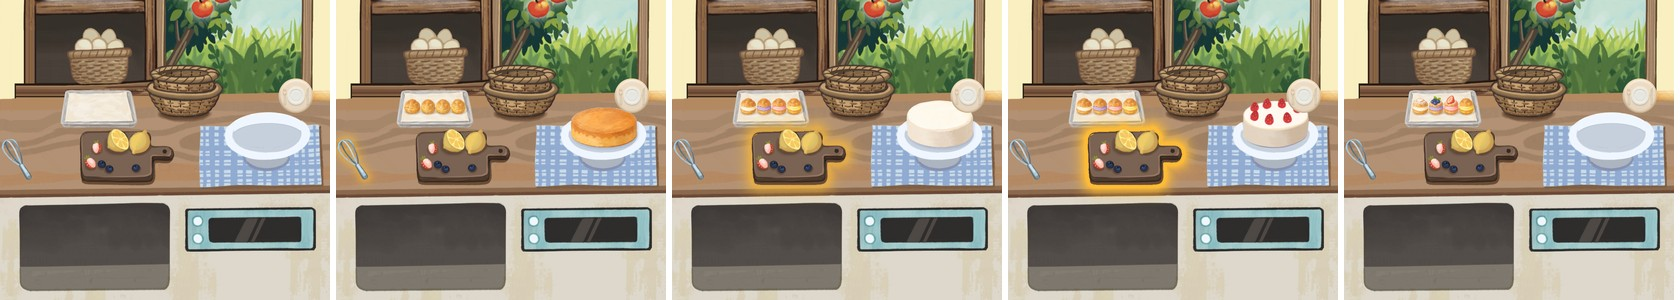
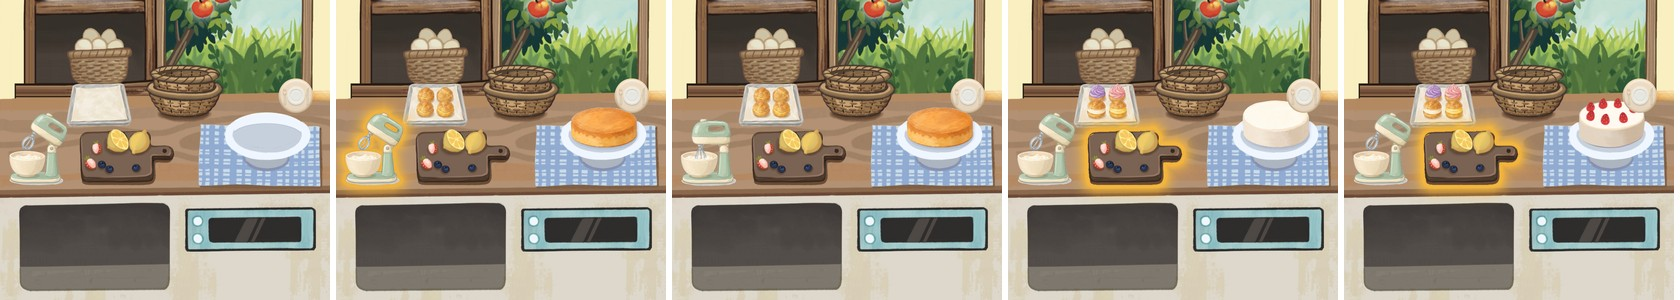
Report: the locked dining table screenshot, the kitchen with the mixer set, the new tray, self-cooking and the new oven times

diff --git a/Docs/tools/report_page/index.html b/Docs/tools/report_page/index.html
@@ -74,12 +74,12 @@ h3 small{font-weight:600;color:var(--soft);font-size:13px;margin-left:6px}
 <h2 id="next"><span class="n">1</span>Next</h2>
 <div class="grid">
 <div class="who p1"><h3>You</h3>
-<p><b>Test build 2026.11.20 (2)</b> is in TestFlight (12:56). The tray, the kitchen-stand cake and the dining table came after it.</p>
-<p><b>Current:</b> the kitchen stages, the mixer with a foot, the dining table.</p>
+<p><b>Test build 2026.11.20 (3):</b> building; this line changes when it is in TestFlight.</p>
+<p><b>Current:</b> the dining table screenshot; the kitchen with the mixer, the tray and the self-cooking.</p>
 <p><b>Release 2026.11.20</b> is still waiting for Apple's review.</p>
 </div>
 <div class="who p2"><h3>Me</h3>
-<p>The mixer into the game on your tick; a new test build when you say. Tomorrow morning: App Store Connect's 19th.</p>
+<p>Better mixer art when ChatGPT's pictures are back (tomorrow 12:01). Tomorrow morning: App Store Connect's 19th.</p>
 </div>
 </div>
 
@@ -106,46 +106,38 @@ h3 small{font-weight:600;color:var(--soft);font-size:13px;margin-left:6px}
 </div>
 <div class="q"><h3>How long each kitchen item takes</h3>
 <ul>
-<li><b>Ovens:</b> cookies 6 s, bread 8 s, choux 10 s, cake 15 s.</li>
+<li><b>Ovens (changed 20 Nov):</b> bread 5 s; choux, cake and cookies 3 s.</li>
 <li><b>Apples</b> (chapter 1) and <b>coconuts</b> (chapter 2): the tree or palm grows them back 8 s after the last one is picked.</li>
 <li><b>Blender</b> (ice cream refill): 5 s (four flavours of 1.1 s, then 0.6 s settling).</li>
 <li><b>Waffle machine</b>: about 2.4 s (1.1 s of steam, then the lid opens and the bowls come out).</li>
 <li><b>Coffee bags and juice</b>: no wait, a tap refills at once.</li>
-<li><b>With the Kitchen upgrade</b> (15 stars) every wait above is a quarter shorter: cookies 4.5 s, bread 6 s, choux 7.5 s, cake 11.3 s, apples and coconuts 6 s, blender 3.9 s, waffles 2.1 s.</li>
+<li><b>With the Kitchen upgrade</b> (15 stars) every wait above is a quarter shorter: bread 3.8 s, the others 2.3 s, apples and coconuts 6 s, blender 3.9 s, waffles 2.1 s.</li>
 </ul>
 <ul class="checks"><li><label><input type="checkbox" data-id="qa.ktimes.seen"> Seen</label></li></ul>
 </div>
 <h2 id="current"><span class="n">3</span>Current</h2>
-<p class="sub" style="margin:0 0 8px">In the project after test build (2); in the next test build.</p>
+<p class="sub" style="margin:0 0 8px">All of this is in test build 2026.11.20 (3).</p>
 <div class="card">
-<p style="margin-top:0"><b>Choux on a baking tray, cake on the kitchen's own stand.</b></p>
-<figure><img src="kitchen_stages.jpg" alt="Five kitchen views. The empty baking tray on the counter and the kitchen's empty cake plate on its blue napkin. Four plain choux on the tray and a sponge on the plate, the whisk glowing. The choux with their four creams and the creamed cake, the fruit board glowing. The finished strawberry cake. The finished choux on the tray, the cake plate empty again"><figcaption>Kitchen, in the game.</figcaption></figure>
+<p style="margin-top:0"><b>The locked dining table in the star shop.</b></p>
+<figure><img src="star_shop_locked.jpg" alt="The star tab of the shop: the kitchen upgrade at 15 stars; a dimmed chef cookie with a padlock at 20 stars; a dimmed dining table cookie with a red checked top, a chair each side and a padlock, at 25 stars"><figcaption>Shop, star tab: kitchen upgrade, the locked chef (20), the locked dining table (25, my price).</figcaption></figure>
+<ul class="checks">
+<li><label><input type="checkbox" data-id="cur.table2.good"> Good</label></li>
+<li><label><input type="checkbox" data-id="cur.table2.change"> Changes (I will say what)</label></li>
+</ul>
+</div>
+
+<div class="card">
+<p style="margin-top:0"><b>Kitchen: the mixer set, the new tray, the kitchen cake.</b></p>
+<figure><img src="kitchen_stages.jpg" alt="Five kitchen views. Before baking: the mixer set at the counter's left end with its head up, the empty squarer tray, the fruit board, the empty cake plate. After the ovens: four plain choux two by two on the tray and a sponge on the plate, the mixer glowing. The mixer running, its head level and the whisk in the bowl. The creams on the choux and the cake, the fruit board glowing. The finished cake, the choux with their creams"><figcaption>Kitchen, in the game.</figcaption></figure>
 <ul>
-<li><b>Cake:</b> every stage stands on the kitchen's own cake painting (its plate and napkin). The empty plate is painted from the painting's own colours; ChatGPT's sponge and creamed cake sit on it; the finished cake is your painting.</li>
-<li><b>Choux:</b> a new baking tray drawn by ChatGPT in the kitchen's style, in four stages: empty, plain puffs, with their creams, finished.</li>
+<li><b>Mixer:</b> the set with its foot is in (for now, as you said): head up and whisk out at rest, level with the whisk in the bowl while it runs. It stands at the counter's left end, where the whisk lay, and can be arranged.</li>
+<li><b>Tray:</b> squarer like the fruit board, the choux two by two; the purple and pink creams are piped on top, the white and yellow sit in the middle. Drawn by Gemini from ChatGPT's tray (ChatGPT is out of free pictures until tomorrow 12:01). In the finished frame Gemini put small top shells on the purple and pink ones; say if that should go.</li>
+<li><b>The kitchen cooks by itself too:</b> after the oven, each next step starts on its own after 3 seconds of waiting; a tap on the glowing mixer or board starts it at once.</li>
+<li><b>Ovens:</b> choux, cake and cookies bake 3 seconds, bread 5.</li>
 </ul>
 <ul class="checks">
-<li><label><input type="checkbox" data-id="cur.kstages.good"> Good</label></li>
-<li><label><input type="checkbox" data-id="cur.kstages.change"> Changes (I will say what)</label></li>
-</ul>
-</div>
-
-<div class="card">
-<p style="margin-top:0"><b>Mixer with a foot:</b> ChatGPT's mixer, given a stand by Gemini so it no longer floats (ChatGPT's free pictures were used up until tomorrow 12:01).</p>
-<figure><img src="mixer_foot.jpg" alt="Two flat side views of the mint and cream mixer on a small mint stand with a round base; the cream bowl sits on the base. Left at rest: the head tilted up on its column, the whisk above the bowl. Right running: the head level, the whisk in the cream"><figcaption>Kitchen. Left at rest, right running.</figcaption></figure>
-<ul class="checks">
-<li><label><input type="checkbox" data-id="cur.mixfoot.use"> Use it</label></li>
-<li><label><input type="checkbox" data-id="cur.mixfoot.down"> Instead: the mixer laid down on the table beside the bowl at rest</label></li>
-<li><label><input type="checkbox" data-id="cur.mixfoot.gpt"> Ask ChatGPT tomorrow</label></li>
-<li><label><input type="checkbox" data-id="cur.mixfoot.change"> Changes (I will say what)</label></li>
-</ul>
-</div>
-
-<div class="card">
-<p style="margin-top:0"><b>A locked "Dining table" in the star shop</b> (25 stars, my price), with Gemini's dining-table cookie: a round red-checked table, a flower vase, a chair each side.</p>
-<ul class="checks">
-<li><label><input type="checkbox" data-id="cur.table.good"> Good</label></li>
-<li><label><input type="checkbox" data-id="cur.table.change"> Changes (I will say what)</label></li>
+<li><label><input type="checkbox" data-id="cur.kitchen3.good"> Good</label></li>
+<li><label><input type="checkbox" data-id="cur.kitchen3.change"> Changes (I will say what)</label></li>
 </ul>
 </div>
 
